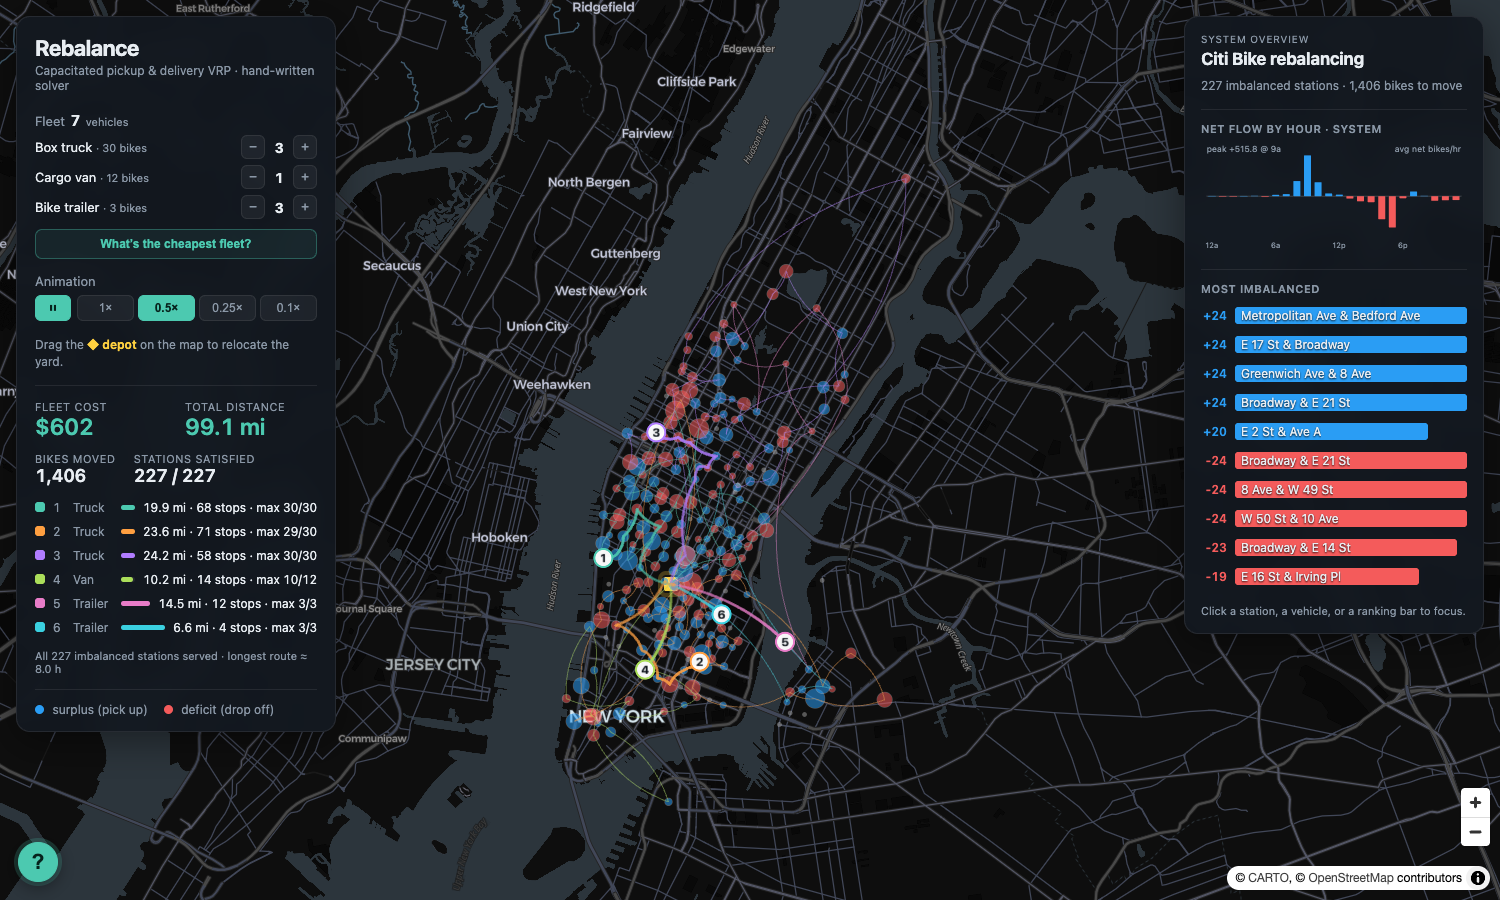
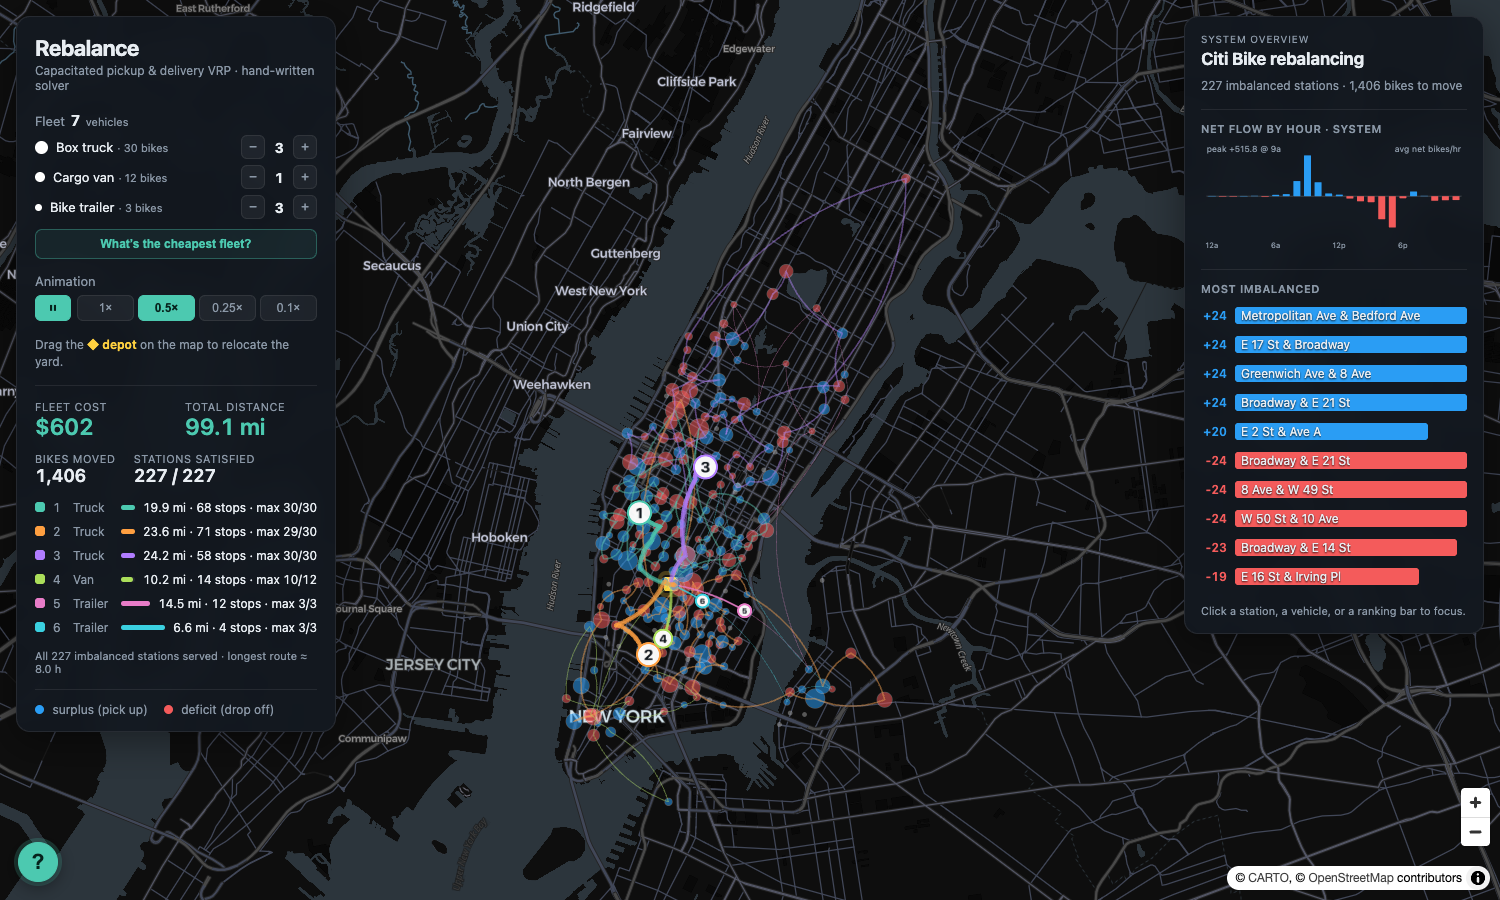
Encode vehicle type visually: marker, route, and trail scale by type
Box trucks, cargo vans, and bike trailers were indistinguishable on the
map (identical 9px markers, identical line weights). Type now reads as
SIZE, fixed per vehicle at all times so it never reads as load:

- VEHICLE_TYPES gains radius (11.5 / 9 / 6.5 px), routeWidth (1.6 / 1.0 /
  0.6) and trailWidth (4.5 / 3 / 1.8); main.js annotates the animation
  model with each vehicle's type record.
- Marker radius, the digit inside it, the route line, and the moving
  trail all scale from the type; the on-map load chip clears the
  vehicle's own marker height.
- Fleet stepper rows get a white size-dot matching the map markers, so
  the controls double as the size key.
- markerRadius() debug hook resolves the focused vehicle's radius number
  (getRadius is an accessor now); marker-fixed still asserts one constant
  radius per vehicle across its whole route.

Verified: marker-fixed (radii: 11.5, single constant), loadchart, smoke,
autofit, interact all pass; shot-system.png shows the three tiers.

Changed region(s): [[0.3987, 0.4667, 0.552, 0.7778], [0.0307, 0.1556, 0.1227, 0.2489], [0.552, 0.3733, 0.5827, 0.4044]]

diff --git a/src/layers.js b/src/layers.js
@@ -108,6 +108,8 @@ export function buildAnimationModel(routes) {
       loads,
       stopTimes,
       stopLoads: wp.map((w) => w.load), // per-stop running load (matches the load chart bars)
+      // main.js annotates each entry with `vehicle` (its VEHICLE_TYPES record)
+      // after building — marker/route/trail sizes encode the type visually.
     });
   }
   return model;
@@ -194,14 +196,16 @@ export function routeLineLayer(model, focus = NO_FOCUS) {
     const a = !hasFocus ? 125 : d.truckIndex === focusedTruck ? 205 : 30;
     return [mute(d.color[0]), mute(d.color[1]), mute(d.color[2]), a];
   };
+  // Line weight encodes vehicle type (box truck heavy → trailer hairline).
+  const baseWidth = (d) => d.vehicle?.routeWidth ?? 1.0;
   return new PathLayer({
     id: 'routes',
     data: model,
     getPath: (d) => d.path,
     getColor: colorOf,
-    getWidth: (d) => (hasFocus && d.truckIndex === focusedTruck ? 1.9 : 1.0),
+    getWidth: (d) => (hasFocus && d.truckIndex === focusedTruck ? baseWidth(d) * 1.9 : baseWidth(d)),
     widthUnits: 'pixels',
-    widthMinPixels: 1,
+    widthMinPixels: 0.5,
     capRounded: true,
     jointRounded: true,
     parameters: { depthTest: false },
@@ -227,7 +231,10 @@ export function tripsLayer(model, currentTime, focus = NO_FOCUS) {
     getTimestamps: (d) => d.timestamps,
     getColor: colorOf,
     opacity: 1,
-    widthMinPixels: 3,
+    // Trail weight encodes vehicle type, matching the route line underneath.
+    getWidth: (d) => d.vehicle?.trailWidth ?? 3,
+    widthUnits: 'pixels',
+    widthMinPixels: 1.5,
     jointRounded: true,
     capRounded: true,
     trailLength: ANIM.trailLength,
@@ -253,15 +260,19 @@ export function sampleTrucks(model, currentTime) {
       load: t.loads[seg], // carrying the load it left waypoint `seg` with
       color: t.color,
       truckIndex: t.truckIndex,
+      vehicle: t.vehicle, // type record → marker radius + number size
     });
   }
   return out;
 }
 
-// --- Moving truck marker: a small WHITE dot with a thin colored ring (route
-// color) and the truck number inside (truckNumberLayer). ONE fixed radius for
-// every truck at all times — it carries identity, not load. Non-focused trucks
-// dim but keep moving. The ring is the color tie-back to the route. ---
+// --- Moving vehicle marker: a small WHITE dot with a thin colored ring (route
+// color) and the vehicle number inside (truckNumberLayer). Radius encodes the
+// VEHICLE TYPE (box truck > van > trailer), fixed per vehicle at all times — it
+// carries identity + type, never load. Non-focused vehicles dim but keep
+// moving. The ring is the color tie-back to the route. ---
+const markerRadiusOf = (d) => d.vehicle?.radius ?? TRUCK_MARKER_RADIUS;
+
 export function truckMarkerLayer(model, currentTime, focus = NO_FOCUS) {
   const { focusedTruck } = focus;
   const hasFocus = focusedTruck != null;
@@ -273,9 +284,9 @@ export function truckMarkerLayer(model, currentTime, focus = NO_FOCUS) {
     getPosition: (d) => d.position,
     getFillColor: (d) => [255, 255, 255, dim(d) ? 70 : 245], // white dot
     getLineColor: (d) => [d.color[0], d.color[1], d.color[2], dim(d) ? 90 : 255], // route-color ring
-    getRadius: TRUCK_MARKER_RADIUS,
+    getRadius: markerRadiusOf,
     radiusUnits: 'pixels',
-    radiusMinPixels: TRUCK_MARKER_RADIUS,
+    radiusMinPixels: 5,
     stroked: true,
     getLineWidth: 2,
     lineWidthUnits: 'pixels',
@@ -300,7 +311,8 @@ export function truckNumberLayer(model, currentTime, focus = NO_FOCUS) {
     getPosition: (d) => d.position,
     getText: (d) => String(d.truckIndex + 1),
     getColor: (d) => [12, 18, 24, dim(d) ? 90 : 255],
-    getSize: 12,
+    // Digit scales with the marker so it fills a box truck and fits a trailer.
+    getSize: (d) => Math.round(markerRadiusOf(d) * 1.3),
     sizeUnits: 'pixels',
     getTextAnchor: 'middle',
     getAlignmentBaseline: 'center',
@@ -325,8 +337,8 @@ export function truckLoadLabelLayer(model, currentTime, capacity, focus = NO_FOC
   if (!truck || !tModel) return null;
   const sl = tModel.stopLoads;
   const load = sl && stopIndex >= 0 && stopIndex < sl.length ? sl[stopIndex] : truck.load;
-  // Sit the chip just clear of the fixed-size marker.
-  const radius = TRUCK_MARKER_RADIUS;
+  // Sit the chip just clear of this vehicle's own marker size.
+  const radius = markerRadiusOf(truck);
   return new TextLayer({
     id: 'truck-load',
     data: [truck],

diff --git a/src/style.css b/src/style.css
@@ -205,10 +205,36 @@ input[type='range'] {
 }
 .fleet-name {
   color: var(--text);
+  display: flex;
+  align-items: center;
 }
 .fleet-name small {
   color: var(--text-dim);
   font-size: 11px;
+  margin-left: 4px;
+}
+
+/* Vehicle-size key: white dots matching the map markers (type = size). The
+   stepper rows double as the legend for the marker/route sizing on the map. */
+.vdot {
+  display: inline-block;
+  flex: 0 0 auto;
+  border-radius: 50%;
+  background: #fff;
+  border: 1.5px solid rgba(255, 255, 255, 0.45);
+  margin-right: 8px;
+}
+.vdot.truck {
+  width: 13px;
+  height: 13px;
+}
+.vdot.van {
+  width: 10px;
+  height: 10px;
+}
+.vdot.trailer {
+  width: 7px;
+  height: 7px;
 }
 .fleet-stepper {
   display: flex;

diff --git a/src/config.js b/src/config.js
@@ -32,10 +32,14 @@ export const C_RANGE = { min: 10, max: 40, default: 30 }; // bikes per truck
 // Costs are rough per-shift estimates (dispatch/driver fixed + running $/mi);
 // invented but plausible, and only their RATIOS steer the fleet finder.
 // Declaration order is big → small so vehicle 1 is always the biggest.
+// radius/routeWidth/trailWidth encode TYPE visually on the map: a box truck is
+// literally bigger than a trailer — marker, route line, and trail all scale.
+// Fixed per vehicle at all times, so size never reads as load (that stays the
+// load chart's job).
 export const VEHICLE_TYPES = [
-  { id: 'truck', name: 'Box truck', short: 'Truck', capacity: 30, fixedCost: 110, costPerMile: 2.2, max: 4 },
-  { id: 'van', name: 'Cargo van', short: 'Van', capacity: 12, fixedCost: 60, costPerMile: 1.25, max: 4 },
-  { id: 'trailer', name: 'Bike trailer', short: 'Trailer', capacity: 3, fixedCost: 20, costPerMile: 0.5, max: 4 },
+  { id: 'truck', name: 'Box truck', short: 'Truck', capacity: 30, fixedCost: 110, costPerMile: 2.2, max: 4, radius: 11.5, routeWidth: 1.6, trailWidth: 4.5 },
+  { id: 'van', name: 'Cargo van', short: 'Van', capacity: 12, fixedCost: 60, costPerMile: 1.25, max: 4, radius: 9, routeWidth: 1.0, trailWidth: 3 },
+  { id: 'trailer', name: 'Bike trailer', short: 'Trailer', capacity: 3, fixedCost: 20, costPerMile: 0.5, max: 4, radius: 6.5, routeWidth: 0.6, trailWidth: 1.8 },
 ];
 export const FLEET_MAX_TOTAL = 8; // one TRUCK_COLORS entry per vehicle
 // Landing state = the fleet finder's own recommendation at the default depot
@@ -154,10 +158,10 @@ export const MARKER = {
 // Ghost opacity for non-focused routes/trails/trucks (Stage 3).
 export const GHOST_OPACITY = 0.15;
 
-// Moving truck marker radius (pixels). FIXED for every truck at all times — it
-// encodes position + truck identity (white dot + number + colored ring) only.
-// Load is shown by the load profile chart and the on-map text chip, never by
-// marker size. Sized just large enough that a single digit stays legible inside.
+// Fallback moving-marker radius (pixels) when a vehicle has no type (shouldn't
+// happen in practice — VEHICLE_TYPES[].radius is the real source). Marker size
+// encodes VEHICLE TYPE, fixed per vehicle at all times; load is shown by the
+// load profile chart and the on-map text chip, never by marker size.
 export const TRUCK_MARKER_RADIUS = 9;
 
 // Route leg curvature: each straight leg is drawn as a gentle Bézier bow so long

diff --git a/src/main.js b/src/main.js
@@ -187,7 +187,9 @@ async function resolve() {
   const types = buildFleet(state.fleet);
   const result = await state.solver.solve({ depot: state.depot, fleet: types.map((t) => t.capacity) });
   state.fleetTypes = types; // commit alongside the solution they produced
-  state.model = buildAnimationModel(result.routes);
+  // Attach each vehicle's type record so the layers can size marker/route/trail
+  // by type (box truck reads bigger than a trailer on the map).
+  state.model = buildAnimationModel(result.routes).map((m) => ({ ...m, vehicle: types[m.truckIndex] }));
   state.metrics = result.metrics;
   state.unservedIdxs = new Set(result.unsatisfiedIdxs || []); // honest coverage → map treatment
   state.routes = result.routes; // keep raw routes: their waypoints[].load drives the load chart
@@ -463,8 +465,9 @@ function exposeDebugHooks() {
       if (i < 0 || i >= m.stopLoads.length) return null;
       return `${m.stopLoads[i]}/${state.fleetTypes[sel.truckIdx]?.capacity ?? 0}`;
     },
-    // Truck marker radius as configured on the live layer — a constant now, so it
-    // never varies with load. Lets a test confirm the marker holds one size.
+    // The focused vehicle's marker radius as the live layer resolves it — fixed
+    // per vehicle (it encodes TYPE), so it never varies with load. Lets a test
+    // confirm the marker holds one size across a whole route.
     markerRadius: () => {
       const sel = getSelection();
       const focus = {
@@ -473,7 +476,11 @@ function exposeDebugHooks() {
         stationToTruck: state.stationToTruck,
         hoveredStation: state.hoveredStation,
       };
-      return truckMarkerLayer(state.model, state.currentTime, focus).props.getRadius;
+      const layer = truckMarkerLayer(state.model, state.currentTime, focus);
+      const g = layer.props.getRadius;
+      if (typeof g !== 'function') return g;
+      const d = layer.props.data.find((t) => (sel.truckIdx != null ? t.truckIndex === sel.truckIdx : true));
+      return d ? g(d) : null;
     },
     playheadX: () => document.querySelector('#a-load svg .load-playhead')?.getAttribute('x'),
     uiState: () => ({ scrubbing: state.scrubbing, hoveredStation: state.hoveredStation }),

diff --git a/src/ui.js b/src/ui.js
@@ -27,7 +27,7 @@ export function initFleetControls({ counts, onChange }) {
   wrap.innerHTML = VEHICLE_TYPES.map(
     (t) => `
       <div class="fleet-row" data-type="${t.id}">
-        <span class="fleet-name">${t.name} <small>· ${t.capacity} bikes</small></span>
+        <span class="fleet-name"><i class="vdot ${t.id}"></i>${t.name} <small>· ${t.capacity} bikes</small></span>
         <span class="fleet-stepper">
           <button type="button" class="fleet-btn" data-delta="-1" aria-label="Fewer: ${t.name}">−</button>
           <strong class="fleet-count" data-count="${t.id}">0</strong>